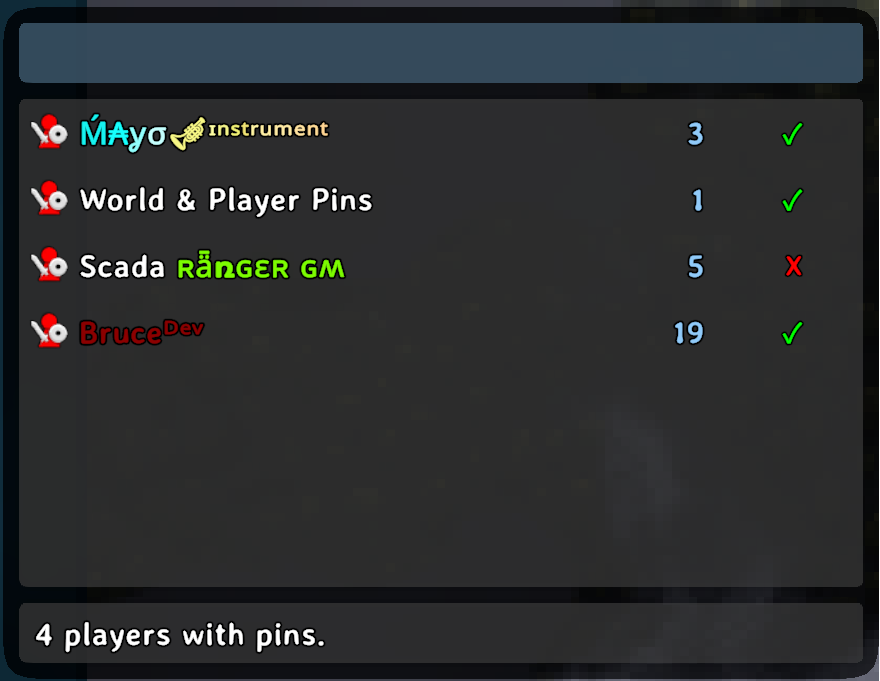
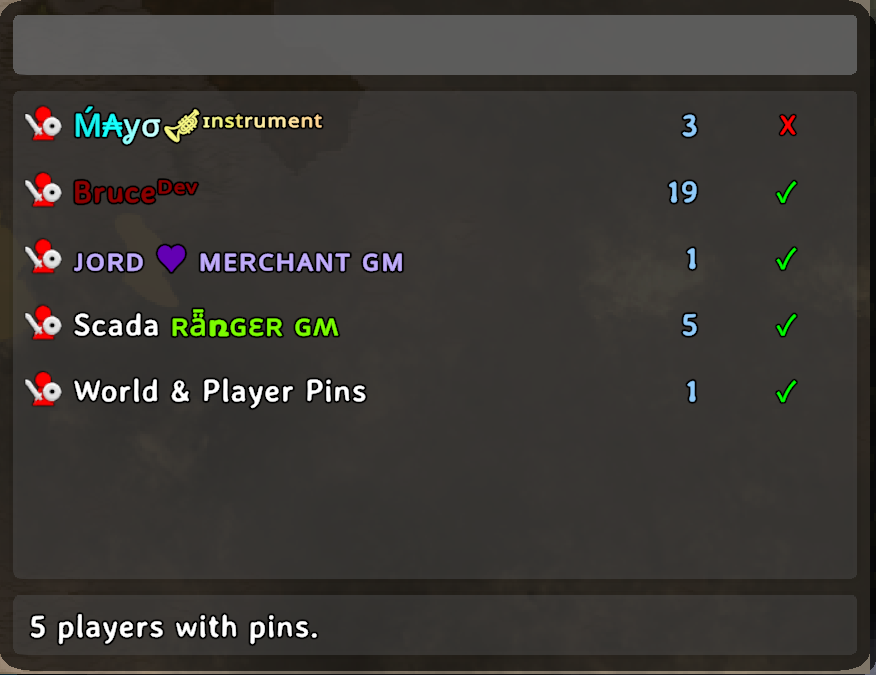
Pintervention v0.1.0 staff testing version. Fixed sorting of player names in panel. Updated image to include Jord.

diff --git a/Pintervention/UI/PlayerPinFilterPanel.cs b/Pintervention/UI/PlayerPinFilterPanel.cs
@@ -112,7 +112,7 @@ namespace Pintervention {
       Content.RectTransform().SetSizeDelta(
           new(Viewport.RectTransform().sizeDelta.x, _rowPreferredHeight * PinOwnerManager.ForeignPinOwners.Count));
 
-      List<long> sortedPinOwners = PinOwnerManager.ForeignPinOwners.OrderBy(x => NameManager.GetPlayerNameById(x)).ToList();
+      PinOwnerManager.SortPinOwnersByName();
 
       for (int i = 0; i < PinOwnerManager.ForeignPinOwners.Count; i++) {
         row = new(Content.transform);

diff --git a/Pintervention/Core/PinOwnerManager.cs b/Pintervention/Core/PinOwnerManager.cs
@@ -129,6 +129,10 @@ namespace Pintervention {
       }
     }
 
+    public static void SortPinOwnersByName() {
+      ForeignPinOwners = ForeignPinOwners.OrderBy(x => NameManager.GetPlayerNameById(x)).ToList();
+    }
+
     public static List<Minimap.PinData> GetPinsByPid(long pid) {
       if (pid == 0L) {
         AddAllLocalPlayerPins();
